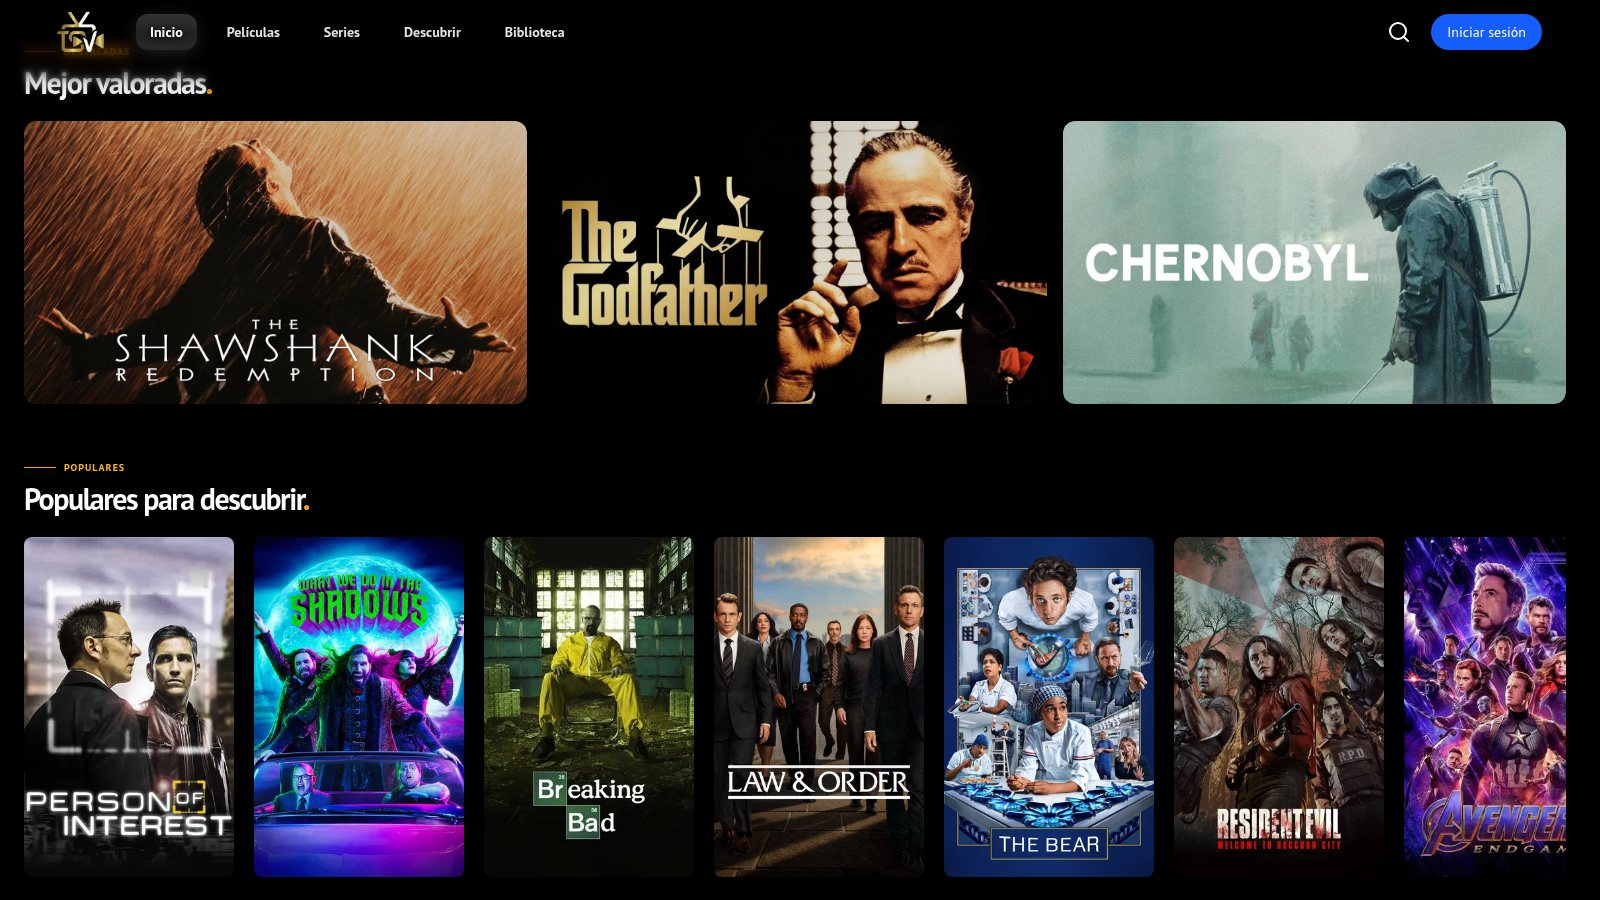
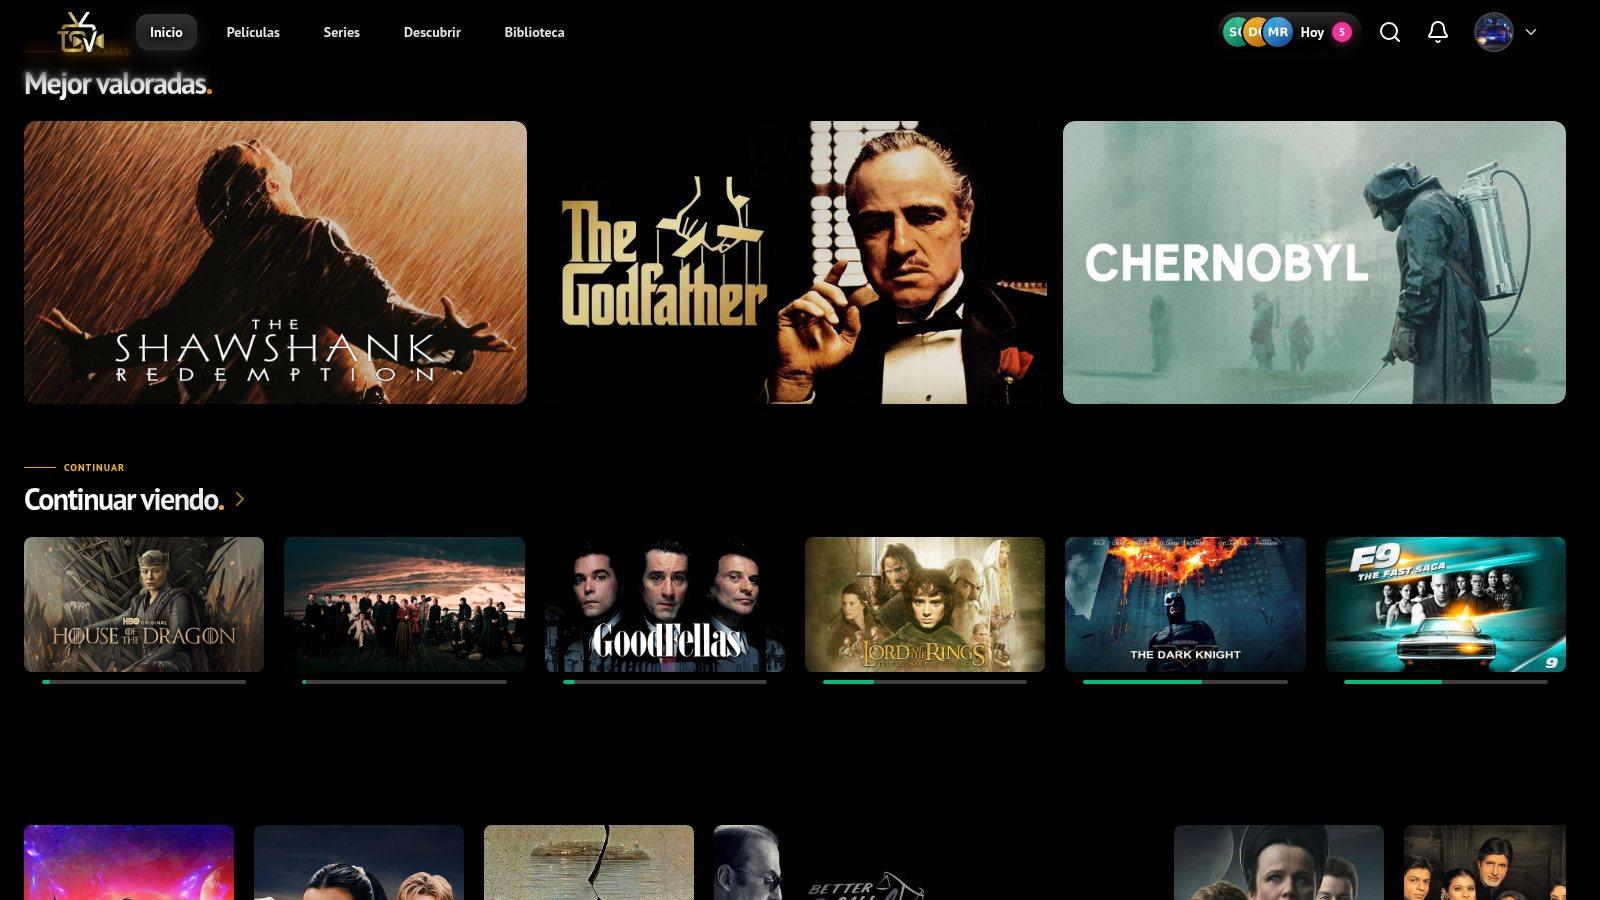
README: capturas con sesión iniciada y páginas de usuario
Recaptura todo con una cuenta con sesión (avatar en el navbar) y añade
al tour la biblioteca personal, la ficha rápida lateral en vista
teléfono, el perfil con estadísticas, nivel y vista neuronal, y Social
· Hoy con sus historias. Banner y montaje móvil rehechos.

diff --git a/README.md b/README.md
@@ -62,30 +62,20 @@ En plena era del streaming lo que ves está repartido entre Netflix, Max, Disney
 
 ## 🎬 Tour visual
 
-> Capturas reales de [theshowverse.com](https://theshowverse.com).
+> Capturas reales de la app con una cuenta con sesión iniciada.
 
 ### 🏠 Inicio
 
-Un hero a pantalla completa con tráiler, logo del título y acciones rápidas, seguido de filas de contenido curado.
+Un hero a pantalla completa con tráiler, logo del título y acciones rápidas, seguido de tus filas personales («Continuar viendo», recomendaciones…) y de contenido curado.
 
 <img src="docs/assets/readme/home.jpg" alt="Inicio con hero a pantalla completa" width="100%">
 
-<table>
-<tr>
-<td width="50%">
-<img src="docs/assets/readme/home-rows.jpg" alt="Filas del dashboard">
-<p align="center"><sub><b>Filas curadas</b>: mejor valoradas, populares, próximos episodios…</sub></p>
-</td>
-<td width="50%">
-<img src="docs/assets/readme/home-hover.jpg" alt="Vista previa al pasar el ratón">
-<p align="center"><sub><b>Vista previa al pasar el ratón</b>: la tarjeta crece, reproduce el tráiler y muestra acciones y notas</sub></p>
-</td>
-</tr>
-</table>
+<img src="docs/assets/readme/home-rows.jpg" alt="Filas del dashboard con Continuar viendo" width="100%">
+<p align="center"><sub><b>Filas del dashboard</b>: mejor valoradas, continuar viendo, populares, próximos episodios…</sub></p>
 
 ### 🎞 Fichas de películas y series
 
-Todo sobre un título en una sola página: marcador de puntuaciones (TMDb, Trakt, IMDb, Rotten Tomatoes, Metacritic…), acciones de seguimiento, reparto, temporadas, recomendaciones, premios, galería de portadas y fondos, opiniones de la comunidad y listas que lo incluyen.
+Todo sobre un título en una sola página: marcador de puntuaciones (TMDb, Trakt, IMDb, Rotten Tomatoes, Metacritic…), tu estado (visto, nota, favorito, pendiente), reparto, temporadas, recomendaciones, premios, galería de arte, opiniones de la comunidad y listas que lo incluyen.
 
 <table>
 <tr>
@@ -95,7 +85,7 @@ Todo sobre un título en una sola página: marcador de puntuaciones (TMDb, Trakt
 </td>
 <td width="50%">
 <img src="docs/assets/readme/tv.jpg" alt="Ficha de serie">
-<p align="center"><sub><b>Ficha de serie</b> con progreso y temporadas</sub></p>
+<p align="center"><sub><b>Ficha de serie</b> con tu nota, visto y favorito</sub></p>
 </td>
 </tr>
 <tr>
@@ -112,6 +102,106 @@ Todo sobre un título en una sola página: marcador de puntuaciones (TMDb, Trakt
 
 <img src="docs/assets/readme/movie-scroll2.jpg" alt="Colección, premios y galería de portadas" width="100%">
 <p align="center"><sub><b>Colección, premios y galería de arte</b>: elige portada, fondo y logo por idioma</sub></p>
+
+### 📚 Tu biblioteca
+
+Cada página personal con su vista predeterminada, buscador, filtros, orden, agrupación y contadores.
+
+<table>
+<tr>
+<td width="50%">
+<img src="docs/assets/readme/favorites.jpg" alt="Favoritos">
+<p align="center"><sub><b>Favoritos</b></sub></p>
+</td>
+<td width="50%">
+<img src="docs/assets/readme/watchlist.jpg" alt="Pendientes">
+<p align="center"><sub><b>Pendientes</b></sub></p>
+</td>
+</tr>
+<tr>
+<td width="50%">
+<img src="docs/assets/readme/history.jpg" alt="Historial">
+<p align="center"><sub><b>Historial</b> agrupado por mes, con calendario</sub></p>
+</td>
+<td width="50%">
+<img src="docs/assets/readme/continue.jpg" alt="Continuar viendo">
+<p align="center"><sub><b>Continuar viendo</b>: lo detectado en tus plataformas y lo añadido a mano</sub></p>
+</td>
+</tr>
+<tr>
+<td width="50%">
+<img src="docs/assets/readme/inprogress.jpg" alt="En progreso">
+<p align="center"><sub><b>En progreso</b>: avance por temporada y episodio</sub></p>
+</td>
+<td width="50%">
+<img src="docs/assets/readme/completed.jpg" alt="Completadas">
+<p align="center"><sub><b>Completadas</b></sub></p>
+</td>
+</tr>
+<tr>
+<td width="50%">
+<img src="docs/assets/readme/biblio.jpg" alt="Biblioteca de Plex">
+<p align="center"><sub><b>Biblioteca</b>: tu servidor Plex</sub></p>
+</td>
+<td width="50%">
+<img src="docs/assets/readme/recs.jpg" alt="Recomendaciones">
+<p align="center"><sub><b>Recomendaciones</b>: desliza para descartar, guardar o marcar favorito</sub></p>
+</td>
+</tr>
+</table>
+
+### 📲 Ficha rápida lateral en vista teléfono
+
+Desde cualquier página personal, pulsar un título abre su ficha en un **panel lateral acoplado** sin salir de la página. En **vista teléfono** el panel reproduce la ficha móvil: portada con logo, botones, marcador y todas las secciones al desplazar. Se puede pasar de un título a otro sin cerrarlo.
+
+<table>
+<tr>
+<td width="50%">
+<img src="docs/assets/readme/drawer-watch.jpg" alt="Panel lateral en vista teléfono desde Pendientes">
+<p align="center"><sub><b>Abierto desde Pendientes</b></sub></p>
+</td>
+<td width="50%">
+<img src="docs/assets/readme/drawer-fav-scroll.jpg" alt="Panel lateral desplazado con marcador y detalles">
+<p align="center"><sub><b>Al desplazar</b>: marcador, estadísticas y detalles</sub></p>
+</td>
+</tr>
+</table>
+
+### 👤 Perfil
+
+Perfil público en `/u/[usuario]` con pestañas para nivel, estadísticas, vista neuronal, actividad, diario, reseñas, favoritos, pendientes, puntuaciones, listas y social.
+
+<img src="docs/assets/readme/profile.jpg" alt="Perfil con películas y series favoritas, nivel y actividad" width="100%">
+<p align="center"><sub><b>Perfil</b>: películas y series favoritas, nivel, resumen del año y actividad</sub></p>
+
+<table>
+<tr>
+<td width="50%">
+<img src="docs/assets/readme/stats.jpg" alt="Estadísticas">
+<p align="center"><sub><b>Estadísticas</b>: actividad mensual, horas vistas, rachas, hora y día favoritos</sub></p>
+</td>
+<td width="50%">
+<img src="docs/assets/readme/level.jpg" alt="Nivel">
+<p align="center"><sub><b>Nivel</b>: rango, XP, logros y de dónde sale la experiencia</sub></p>
+</td>
+</tr>
+</table>
+
+<img src="docs/assets/readme/neuronal.jpg" alt="Vista neuronal" width="100%">
+<p align="center"><sub><b>Vista neuronal</b>: grafo de todo lo que has visto, unido por géneros y sagas</sub></p>
+
+### 💬 Social · Hoy
+
+Lo más destacado de lo que han visto, puntuado y reseñado la gente que sigues (o toda la comunidad) hoy, ayer o esta semana.
+
+<img src="docs/assets/readme/social.jpg" alt="Social, vista Hoy" width="100%">
+<p align="center"><sub><b>Hoy</b>: historia destacada, lo que ha visto la gente que sigues y los más activos</sub></p>
+
+<p align="center">
+<img src="docs/assets/readme/stories-hover.jpg" alt="Historias de Hoy con la ficha del título" width="60%">
+<br>
+<sub><b>Historias</b> por título; al pasar el ratón, la portada se gira y muestra la ficha</sub>
+</p>
 
 ### 🧭 Explorar
 
@@ -150,22 +240,9 @@ Todo sobre un título en una sola página: marcador de puntuaciones (TMDb, Trakt
 
 ### 📱 En el móvil
 
-Diseño propio para móvil (no una versión encogida): cabeceras inmersivas, barra inferior de acciones, gestos para pasar de título, vista previa al mantener pulsada una tarjeta y PWA instalable.
+Diseño propio para móvil (no una versión encogida): cabeceras inmersivas, barra inferior configurable, gestos para pasar de título, vista previa al mantener pulsada una tarjeta y PWA instalable.
 
-<img src="docs/assets/readme/mobile-showcase.jpg" alt="Pantallas de la app en móvil" width="100%">
-
-<table>
-<tr>
-<td width="50%">
-<img src="docs/assets/readme/recap.jpg" alt="Recap anual">
-<p align="center"><sub><b>Tu año en The Show Verse</b>: resumen anual con imagen para compartir</sub></p>
-</td>
-<td width="50%">
-<img src="docs/assets/readme/login.jpg" alt="Inicio de sesión">
-<p align="center"><sub><b>Cuenta propia</b> con correo o Google</sub></p>
-</td>
-</tr>
-</table>
+<img src="docs/assets/readme/mobile-showcase.jpg" alt="Inicio, ficha, Favoritos, En progreso, Perfil y Social en móvil" width="100%">
 
 ---
 
